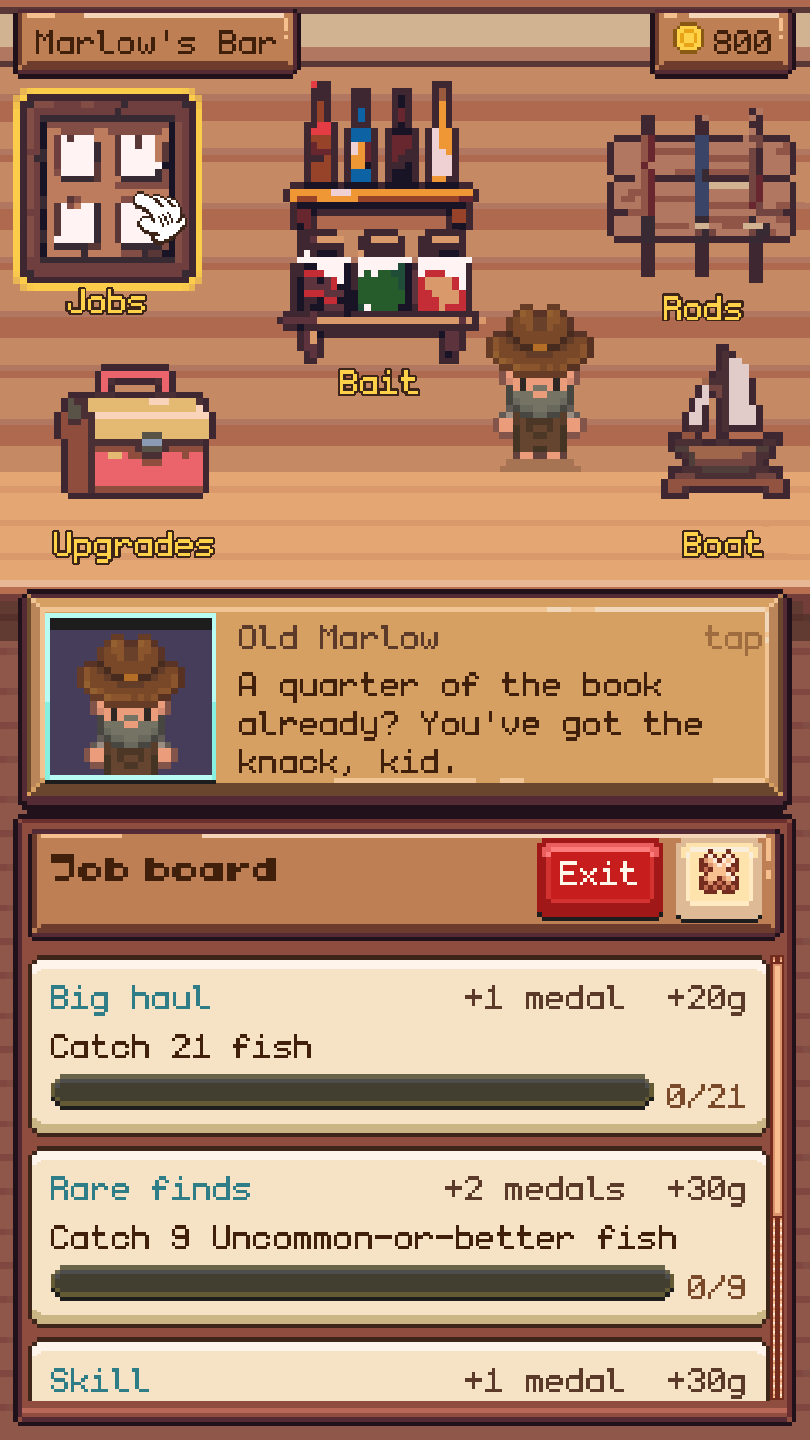
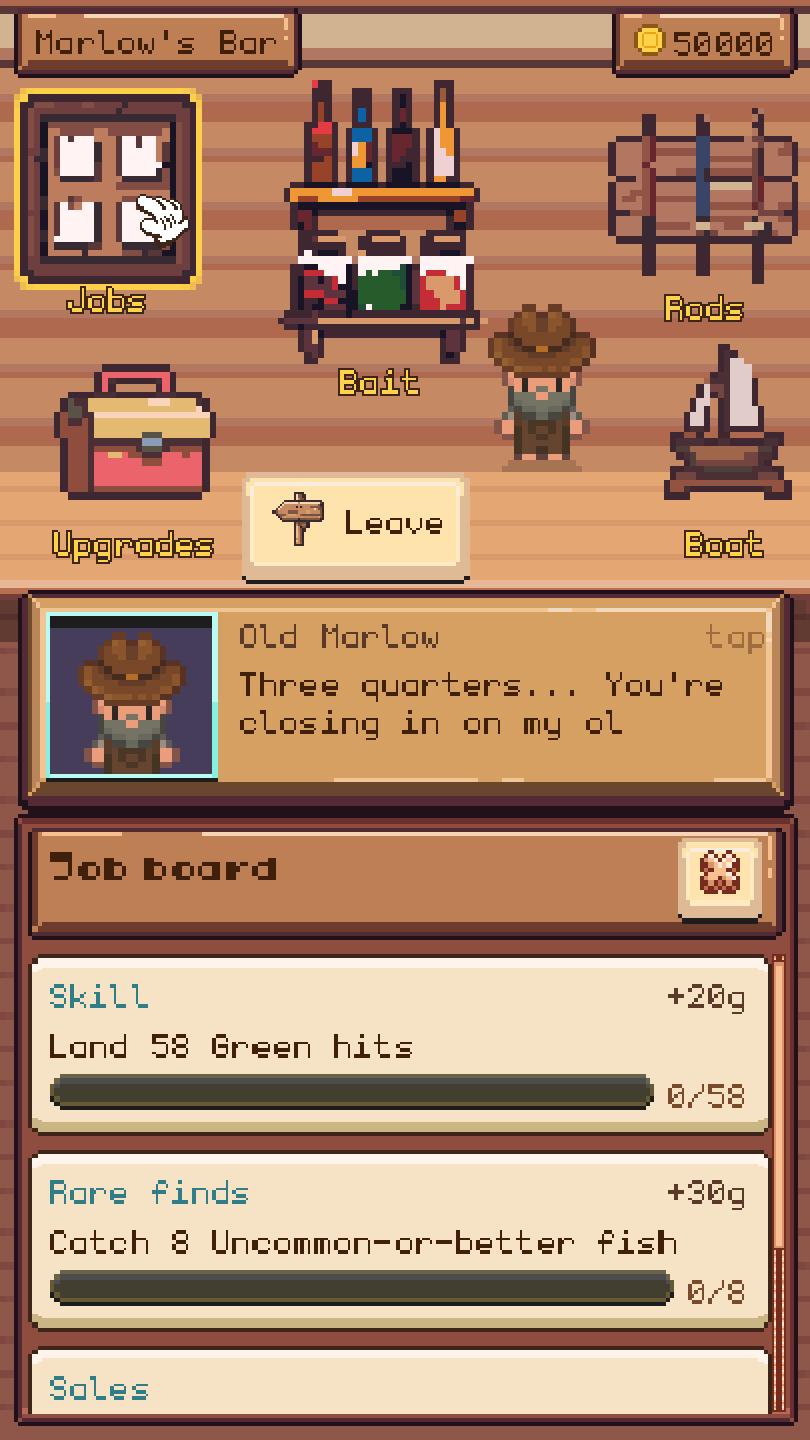
New selling points and fresh screenshots
The hero and previews lead with the pup's charm and the mystery of its owner;
Play it your way (casting styles, the gentler Fisherman's Charm reel); six
world cards (adding charms, a home of your own and the journal); the pup
section teases who's missing him. Ten new screenshots from a staged mid-game
save, two of them new (Prepare, the home).

diff --git a/index.html b/index.html
@@ -4,11 +4,11 @@
 <meta charset="utf-8">
 <meta name="viewport" content="width=device-width, initial-scale=1">
 <title>Fisherman's Charm: your pocket-sized seaside escape</title>
-<meta name="description" content="Your pocket-sized seaside escape. Cast a line, catch something wonderful and watch the sun go down with your best friend at your side. A cosy pixel-art fishing game for iPhone, with no ads.">
+<meta name="description" content="Your pocket-sized seaside escape. Cast a line, catch something wonderful, and follow a scruffy pup and his lucky charm across five sunny islands. A cosy pixel-art fishing game for iPhone, with no ads.">
 <meta name="theme-color" content="#0f3d52">
 <meta property="og:type" content="website">
 <meta property="og:title" content="Fisherman's Charm">
-<meta property="og:description" content="Your pocket-sized seaside escape. Cast a line, meet a scruffy pup and fish your way across five sunny islands. Coming soon to iPhone.">
+<meta property="og:description" content="Your pocket-sized seaside escape. Hook a scruffy pup with an old charm on his bandana, then fish your way across five sunny islands to find out whose it is. Coming soon to iPhone.">
 <!-- Once the site is hosted, make this an absolute URL (https://your-domain/img/og.jpg) so link previews work. -->
 <meta property="og:image" content="img/og.jpg">
 <meta name="twitter:card" content="summary_large_image">
@@ -233,7 +233,7 @@
       <h1 id="hero-title"><img class="logo" src="img/logo.webp" srcset="img/logo-720.webp 720w, img/logo.webp 1200w" sizes="(min-width: 900px) 600px, 80vw" width="1200" height="432" alt="Fisherman's Charm"></h1>
     </div>
     <div class="wrap hero-bottom"><div class="hero-copy">
-      <p class="lede">Your pocket-sized seaside escape. Cast a line, catch something wonderful, and watch the sun go down with your best friend at your side.</p>
+      <p class="lede">Your pocket-sized seaside escape. Cast a line, catch something wonderful, and follow a scruffy pup and his lucky charm across five sunny islands.</p>
       <div class="cta-row">
         <a class="btn" href="#buy" aria-disabled="true">Coming soon</a>
         <a class="btn ghost" href="#screens">Take a look</a>
@@ -252,7 +252,7 @@
         <article class="perk reveal">
           <div class="glyph" aria-hidden="true">&#9790;</div>
           <h3>Unwind in seconds</h3>
-          <p>On the bus, in a queue or tucked up in bed: flick out a cast, tap in rhythm, and feel your shoulders drop.</p>
+          <p>On the bus, in a queue or tucked up in bed: one thumb, one cast, and the world goes quiet for a while.</p>
         </article>
         <article class="perk reveal">
           <div class="glyph" aria-hidden="true">?</div>
@@ -261,8 +261,8 @@
         </article>
         <article class="perk reveal">
           <div class="glyph" aria-hidden="true">&hearts;</div>
-          <h3>Make it yours</h3>
-          <p>Fill a journal with every fish you meet, hang your proudest catches at home, and dress your fisher just the way you like.</p>
+          <h3>Play it your way</h3>
+          <p>Pull back like a slingshot, or just tap the spot you want. Want it gentler? The Fisherman's Charm slows the reel right down, same rewards.</p>
         </article>
       </div>
     </div>
@@ -273,11 +273,14 @@
     <div class="wrap">
       <p class="kicker">A whole little world</p>
       <h2 id="world-title">Five islands. One big catch.</h2>
-      <p class="sub">From a sleepy pond to the deep blue sea, every island has its own fish, its own neighbours, and something enormous waiting offshore.</p>
+      <p class="sub">From a sleepy pond to the edge of the deep, every island has its own fish, its own weather, and something enormous waiting offshore.</p>
       <div class="grid">
-        <article class="card reveal"><div class="num">&#9788;</div><h3>Sunrise to starlight</h3><p>Fish at dawn, under a rainy sky or by lantern light. Each hour and every kind of weather brings different fish to the surface.</p></article>
-        <article class="card reveal"><div class="num">&#9875;</div><h3>Giants of the deep</h3><p>Sail somewhere new and something huge rises to meet you. Hold your nerve, and your dog will help you land it.</p></article>
-        <article class="card reveal"><div class="num">&#8962;</div><h3>Neighbours who need you</h3><p>The islanders keep losing things in the water. Fish them out, earn their thanks, and fill your cottage with the gifts.</p></article>
+        <article class="card reveal"><div class="num">&#9788;</div><h3>Sunrise to starlight</h3><p>Fish at dawn, in the rain or by lantern light. Every hour and every sky brings different fish to the surface.</p></article>
+        <article class="card reveal"><div class="num">&#9875;</div><h3>Giants of the deep</h3><p>Sail somewhere new and something huge rises to meet you. Hold your nerve, and your dog will leap in to help you land it.</p></article>
+        <article class="card reveal"><div class="num">&#9786;</div><h3>Neighbours who need you</h3><p>Six islanders, each with errands to run and something lost in the water. Help them out and they'll fill your wardrobe and the furniture shop.</p></article>
+        <article class="card reveal"><div class="num">&#10022;</div><h3>Lucky charms</h3><p>Sell the right fish and old Marlow will craft you a charm: a patient float, a reef compass, a relic from the deep. Wear three at once.</p></article>
+        <article class="card reveal"><div class="num">&#8962;</div><h3>A home of your own</h3><p>Hang your biggest catches on the wall, arrange your cottage just so, and dress your fisher however you like.</p></article>
+        <article class="card reveal"><div class="num">&#10070;</div><h3>A journal to fill</h3><p>A hundred kinds of fish, each with a record to beat. Some only bite at night, some only in a storm.</p></article>
       </div>
     </div>
   </section>
@@ -293,14 +296,16 @@
         <p class="hint">Swipe for more →</p>
       </div>
       <div class="shots" role="list" tabindex="0" aria-label="Game screenshots">
-        <figure class="shot" role="listitem"><div class="phone"><img src="img/shot-reel.webp" width="810" height="1440" loading="lazy" alt="The reel: a bar of green, yellow and red zones with an arrow sweeping across it"></div><figcaption>Feel the tug<small>Tap in rhythm to reel it in</small></figcaption></figure>
-        <figure class="shot" role="listitem"><div class="phone"><img src="img/shot-dog.webp" width="810" height="1440" loading="lazy" alt="A pup dangling from the fishing line by his bandana, with an old fisherman laughing from the shore"></div><figcaption>Your first catch<small>Not quite what you were after</small></figcaption></figure>
-        <figure class="shot" role="listitem"><div class="phone"><img src="img/shot-island.webp" width="810" height="1440" loading="lazy" alt="The home island: a bar, palm trees, neighbours and the pup"></div><figcaption>Home sweet island<small>Say hello to the neighbours</small></figcaption></figure>
-        <figure class="shot" role="listitem"><div class="phone"><img src="img/shot-map.webp" width="810" height="1440" loading="lazy" alt="A sea chart with islands appearing out of the haze"></div><figcaption>Set sail<small>New shores to discover</small></figcaption></figure>
-        <figure class="shot" role="listitem"><div class="phone"><img src="img/shot-catch.webp" width="810" height="1440" loading="lazy" alt="A legendary turtle just caught, with its size and value"></div><figcaption>The one that didn't get away<small>Some catches you'll never forget</small></figcaption></figure>
-        <figure class="shot" role="listitem"><div class="phone"><img src="img/shot-journal.webp" width="810" height="1440" loading="lazy" alt="The fish journal, a grid of caught fish and silhouettes still to find"></div><figcaption>Fill your journal<small>How many can you find?</small></figcaption></figure>
+        <figure class="shot" role="listitem"><div class="phone"><img src="img/shot-reel.webp" width="810" height="1440" loading="lazy" alt="The reel: a bar of green, yellow and red zones in a driftwood frame, the fish's fighting styles tagged above"></div><figcaption>Feel the tug<small>Tap in rhythm, and mind how it fights</small></figcaption></figure>
+        <figure class="shot" role="listitem"><div class="phone"><img src="img/shot-dog.webp" width="810" height="1440" loading="lazy" alt="A pup dangling from the line by his red bandana while old Marlow notices a fisherman's charm tied to it"></div><figcaption>Your first catch<small>...and what's that on his bandana?</small></figcaption></figure>
+        <figure class="shot" role="listitem"><div class="phone"><img src="img/shot-island.webp" width="810" height="1440" loading="lazy" alt="The home island: walking up to a neighbour with a Talk button, the pup at your heels"></div><figcaption>Home sweet island<small>Stop and chat with the neighbours</small></figcaption></figure>
+        <figure class="shot" role="listitem"><div class="phone"><img src="img/shot-prep.webp" width="810" height="1440" loading="lazy" alt="Getting ready: picking the weather and the hour, with bait and rods recommended for them"></div><figcaption>Pick your moment<small>Weather, hour, bait and rod</small></figcaption></figure>
+        <figure class="shot" role="listitem"><div class="phone"><img src="img/shot-map.webp" width="810" height="1440" loading="lazy" alt="A sea chart of five islands joined by dotted routes"></div><figcaption>Set sail<small>Five islands to reach</small></figcaption></figure>
+        <figure class="shot" role="listitem"><div class="phone"><img src="img/shot-catch.webp" width="810" height="1440" loading="lazy" alt="A legendary blue lobster just caught at night, with its size and value"></div><figcaption>The one that didn't get away<small>Some catches you'll never forget</small></figcaption></figure>
+        <figure class="shot" role="listitem"><div class="phone"><img src="img/shot-journal.webp" width="810" height="1440" loading="lazy" alt="The fish journal, 80 of 100 found, with the giants beaten along the top"></div><figcaption>Fill your journal<small>How many can you find?</small></figcaption></figure>
+        <figure class="shot" role="listitem"><div class="phone"><img src="img/shot-charms.webp" width="810" height="1440" loading="lazy" alt="The charm bracelet with three charms worn and the bonuses they add up to"></div><figcaption>Lucky charms<small>Crafted from the fish you sell</small></figcaption></figure>
+        <figure class="shot" role="listitem"><div class="phone"><img src="img/shot-home.webp" width="810" height="1440" loading="lazy" alt="Your cottage: five prize fish on the wall, an aquarium, a bed and a heart rug"></div><figcaption>Make it home<small>Your proudest catches on the wall</small></figcaption></figure>
         <figure class="shot" role="listitem"><div class="phone"><img src="img/shot-bar.webp" width="810" height="1440" loading="lazy" alt="Marlow's bar with the job board, bait jars, rod rack and a model boat"></div><figcaption>Old Marlow's bar<small>Jobs, gear and a good yarn</small></figcaption></figure>
-        <figure class="shot" role="listitem"><div class="phone"><img src="img/shot-charms.webp" width="810" height="1440" loading="lazy" alt="A list of charms, each crafted from fish you have sold"></div><figcaption>Lucky charms<small>A little magic for every angler</small></figcaption></figure>
       </div>
     </div>
   </section>
@@ -308,12 +313,12 @@
   <!-- ================= the pup ================= -->
   <section class="pup" aria-labelledby="pup-title">
     <div class="wrap">
-      <div class="phone reveal"><img src="img/shot-dog.webp" width="810" height="1440" loading="lazy" alt="An old fisherman says: Ha! That's no fish, that's a dog! A pup dangles from the line by his bandana"></div>
+      <div class="phone reveal"><img src="img/shot-dog.webp" width="810" height="1440" loading="lazy" alt="Old Marlow says: Hold on, what's this tied to it? A fisherman's charm. A pup dangles from the line by his red bandana"></div>
       <div class="reveal">
         <p class="kicker">Meet your best friend</p>
         <h2 id="pup-title">You went fishing. You caught a dog.</h2>
-        <p>Your very first cast hooks something heavy, and it's wearing a red bandana. From that day on he's yours: trotting beside you round the island, sitting by the pier while you wait for a bite, and wagging like mad when something good comes up.</p>
-        <p>Every angler needs a first mate. Yours just happens to have four paws.</p>
+        <p>Your very first cast hooks something heavy, and it's wearing a red bandana. Tied to it is an old fisherman's charm, the real kind. Nobody on the island knows whose it is.</p>
+        <p>So he comes along: trotting at your heels, sitting by the pier while you wait for a bite, barking like mad when something good comes up. And somewhere out past the last giant, someone has been missing him.</p>
       </div>
     </div>
   </section>
@@ -326,7 +331,7 @@
       <ul>
         <li>No ads, ever</li>
         <li>No energy bars or waiting timers</li>
-        <li>Plays one-handed, in portrait</li>
+        <li>Plays one-handed, in portrait, at your own pace</li>
         <li>Put it down any time: it remembers everything</li>
       </ul>
       <div><span class="btn" aria-disabled="true">Coming soon to the App Store</span></div>

diff --git a/README.md b/README.md
@@ -15,14 +15,18 @@ A static, dependency-free page for Fisherman's Charm: `index.html` (inline CSS a
 
 ## The images
 
-`img/shot-*.webp` are real in-game screenshots at 810x1440, captured with the debug flags:
+`img/shot-*.webp` are real in-game screenshots: the game's 405x720 window doubled to 810x1440 with
+nearest-neighbour scaling, saved as lossless WebP (the sea chart, all parchment texture, as lossy). They
+come from a staged save well into the game (the game's `Debug._setup("rich")` plus the dog named Biscuit,
+every giant beaten, charms worn and an aquarium at home), captured scene by scene with the game's
+screenshot helper (`tools/art_shots.gd`'s `_visit`):
 
-```bash
-godot --path . --resolution 810x1440 -- --setup=mid --dog --scene=island --spawn=bar --shot=island.png --frames=100
-godot --path . --resolution 810x1440 -- --setup=mid --dog --scene=fishing --island=0 --autoreel --frames=104 --shot=reel.png
-```
-
-(`--scene=map|bar|home|encyclopedia|charms` for the others; the pup shot comes from `tools/ui_test_tutorial.tscn`.)
+- `shot-reel`: a reel at Coral Lagoon, the fish Darting and Heavy, in its driftwood frame
+- `shot-dog`: the tutorial, Marlow spotting the fisherman's charm on the pup's bandana (`tools/ui_test_tutorial.tscn`, two lines on)
+- `shot-island`: walking up to Pip on the home island, "Talk to Pip" showing, the pup alongside
+- `shot-prep`: Prepare at Coral Lagoon, rain at dusk, with the recommendations
+- `shot-map`, `shot-journal`, `shot-charms`, `shot-home`, `shot-bar`: those screens on the same save
+- `shot-catch`: a legendary Blue Lobster landed at Abyssal Reef at night
 
 `hero.webp` (1672 wide) and `hero-960.webp` (for phones) are the hero picture, pixel art of the boy and his
 pup on the pier at sunset, shown full width with a slow parallax drift (off under reduced motion).
